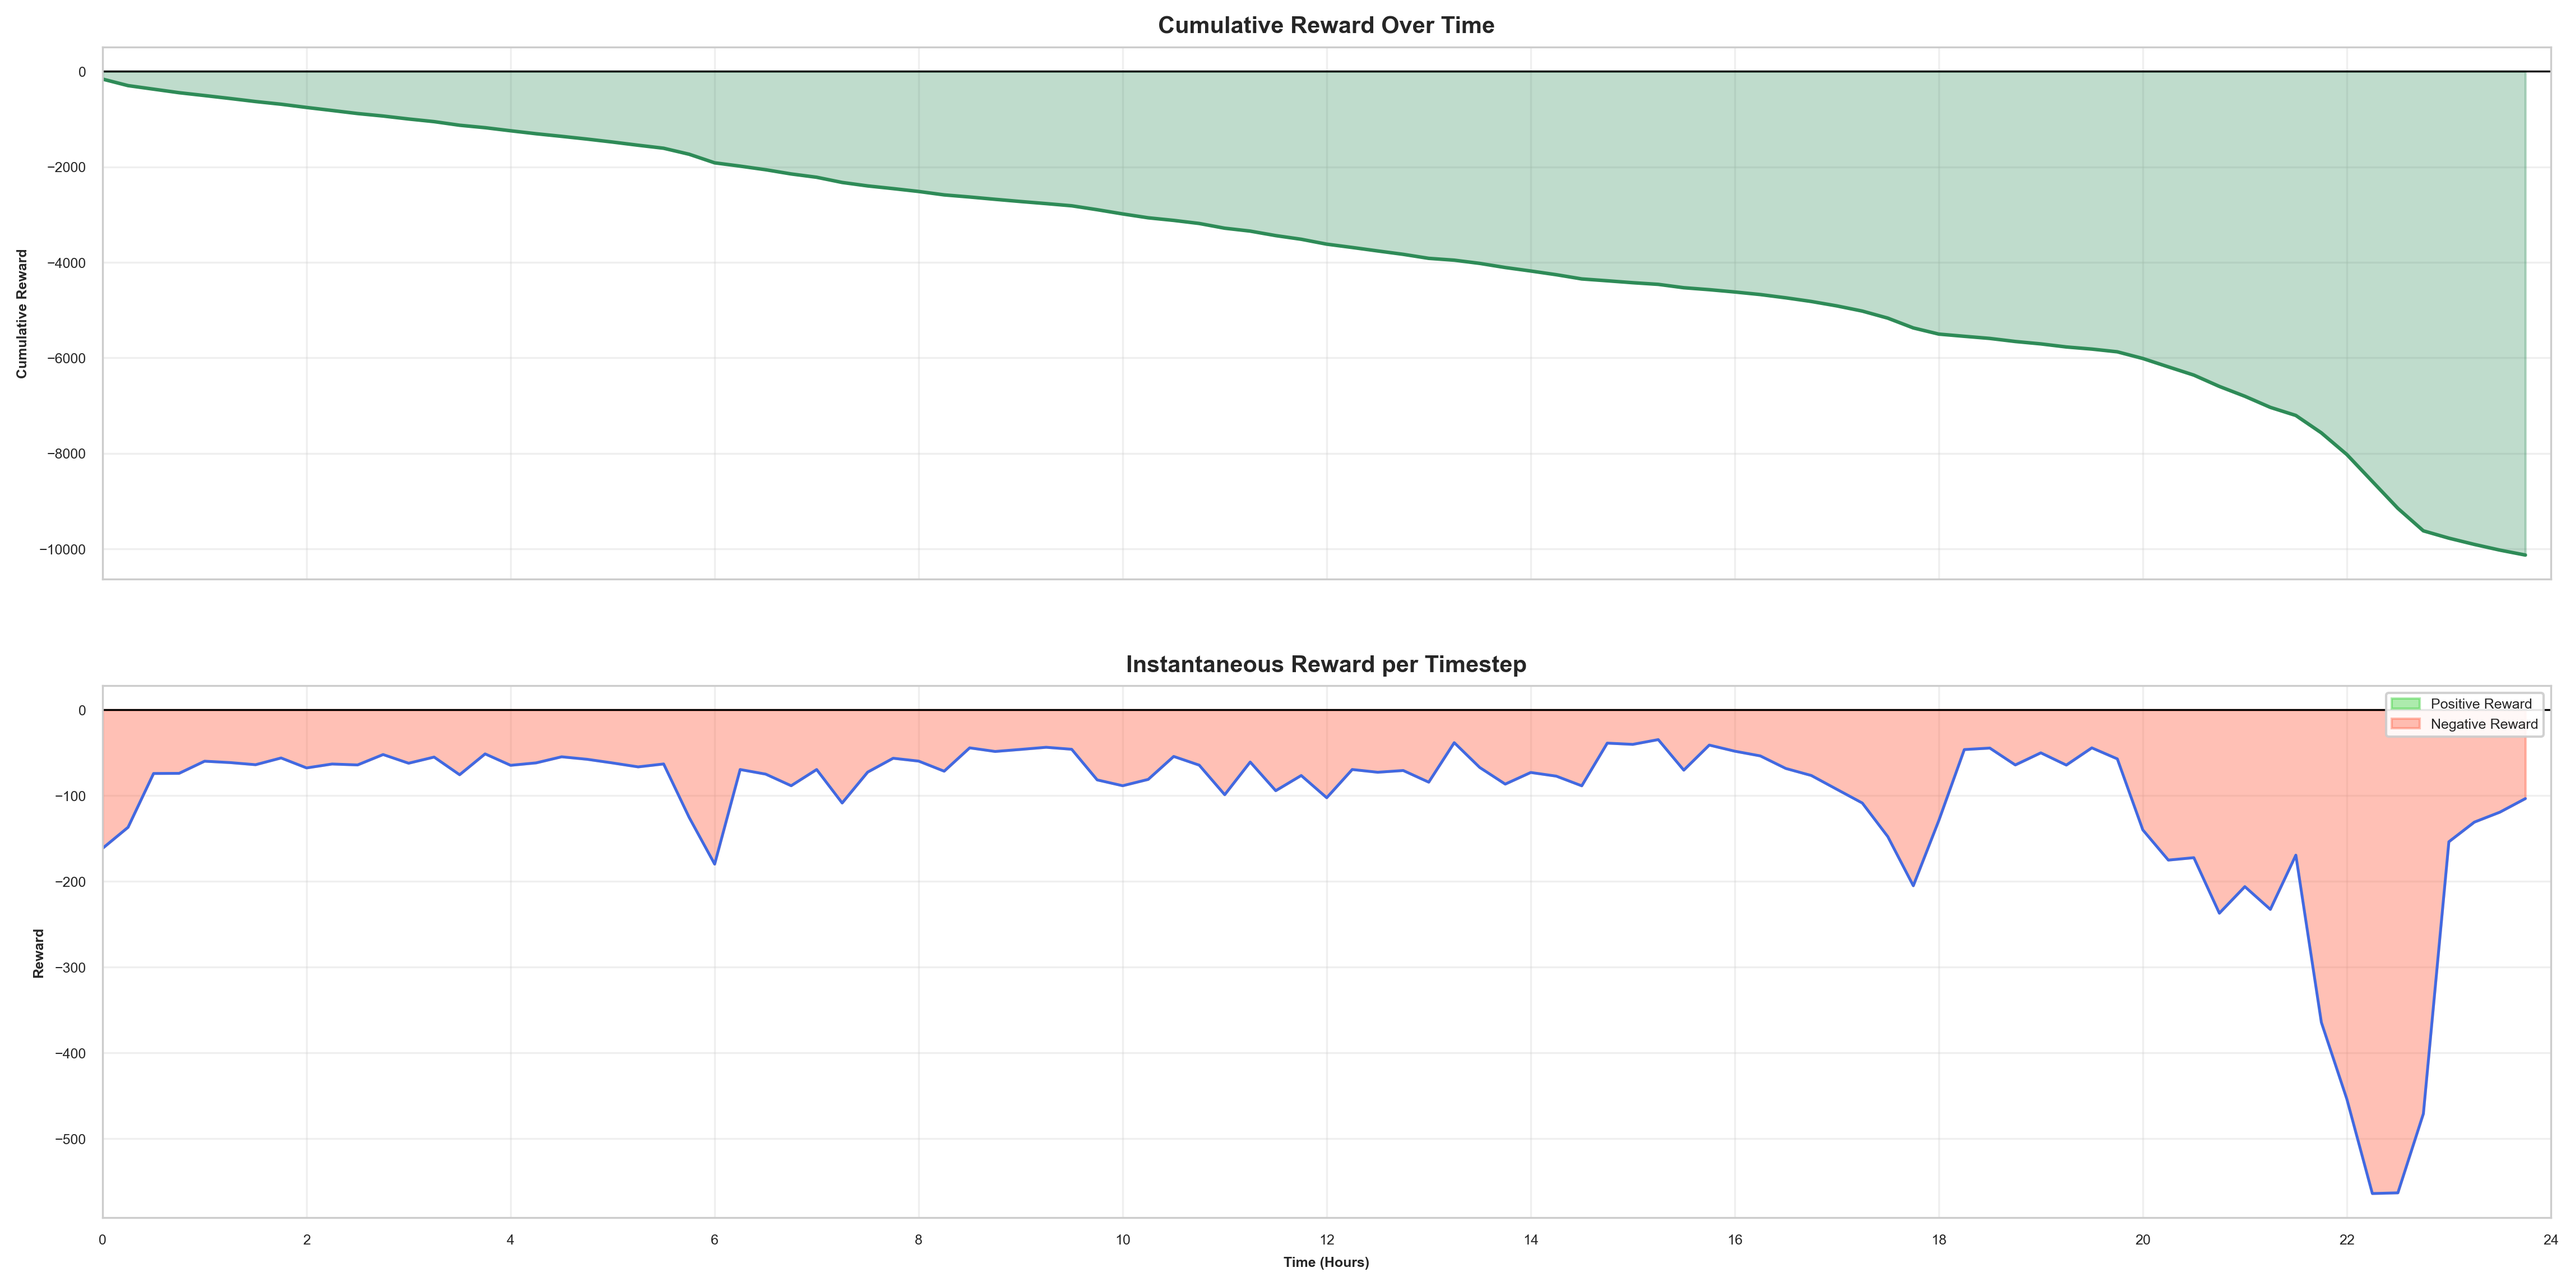
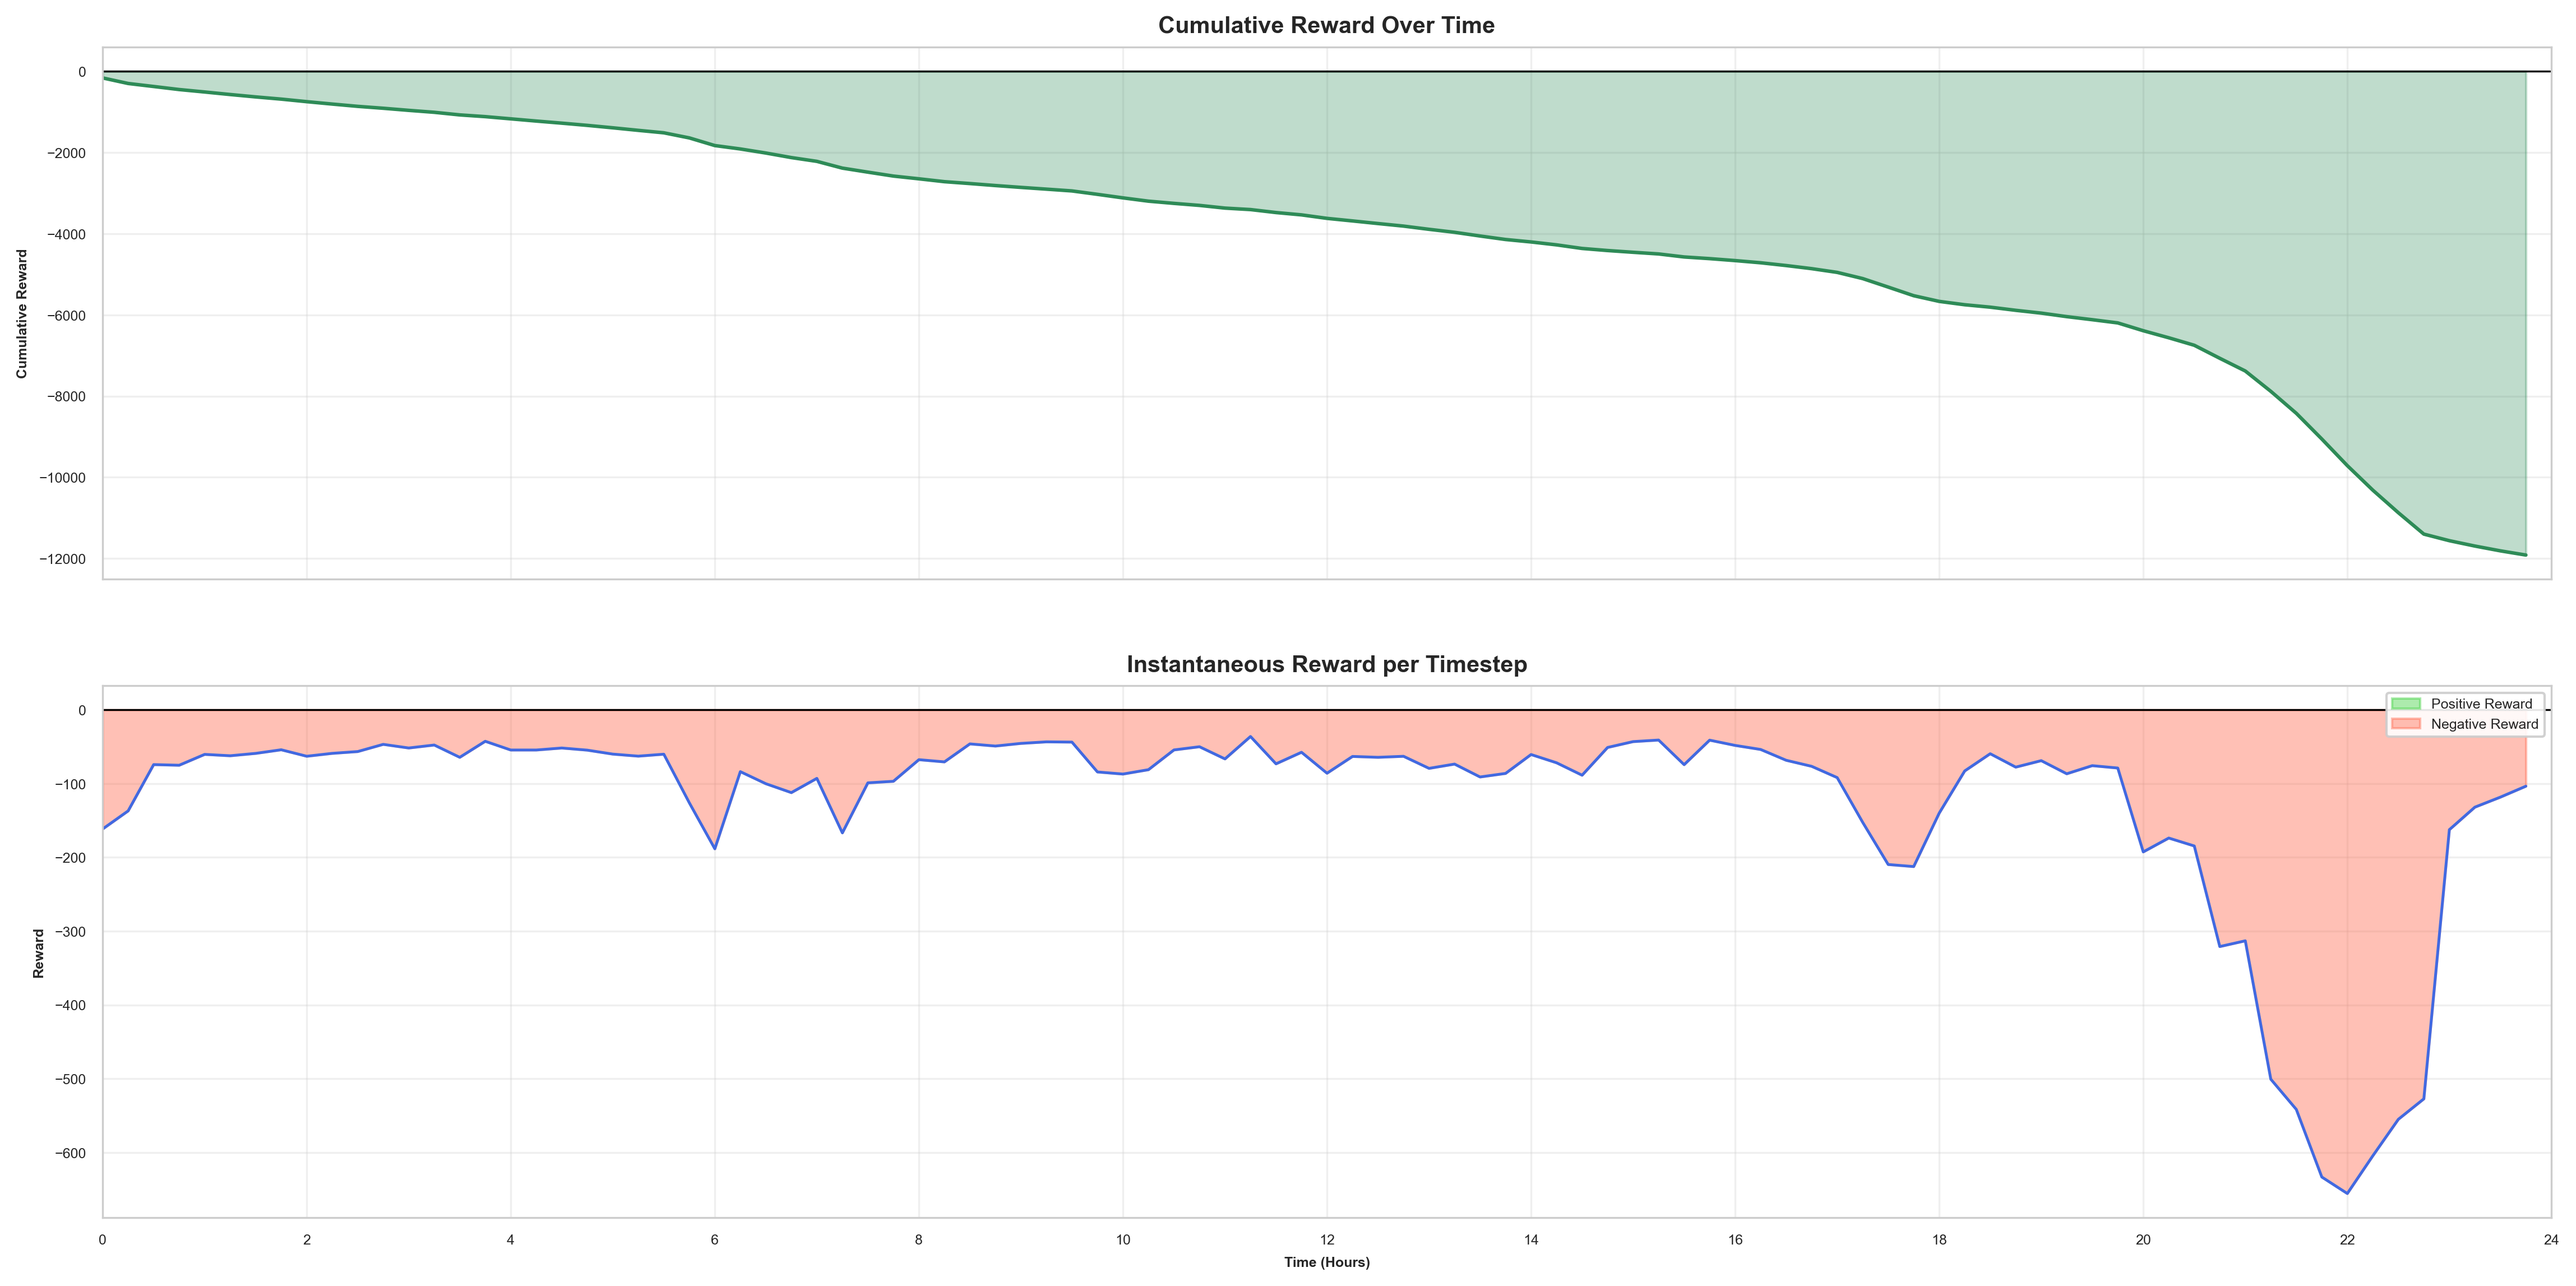
battery

diff --git a/RL_agent/vpp_env.py b/RL_agent/vpp_env.py
@@ -413,7 +413,14 @@ class UrbanVPPEnv(gym.Env):
                 if net_solar_surplus <= 0:  # No solar surplus available
                     desired_power = 0.0  # Block daytime grid charging for home batteries
             
-            # --- CONSTRAINT 4: Block all battery charging between 11pm-12am ---
+            # --- CONSTRAINT 4: Home Battery Discharge Strategy ---
+            # Home batteries should ONLY discharge during peak hours (6pm-11pm, 67 LKR)
+            # Save them for when grid prices are highest, avoid daytime/off-peak discharge
+            if not is_bess and desired_power > 0:  # Home battery trying to discharge
+                if not (18 <= hour < 23):  # NOT during peak hours (6pm-11pm)
+                    desired_power = 0.0  # Block discharge outside peak - save for expensive hours
+            
+            # --- CONSTRAINT 5: Block all battery charging between 11pm-12am ---
             if 23 <= hour < 24 and desired_power < 0:
                 desired_power = 0.0  # No charging allowed between 11pm-12am
             
